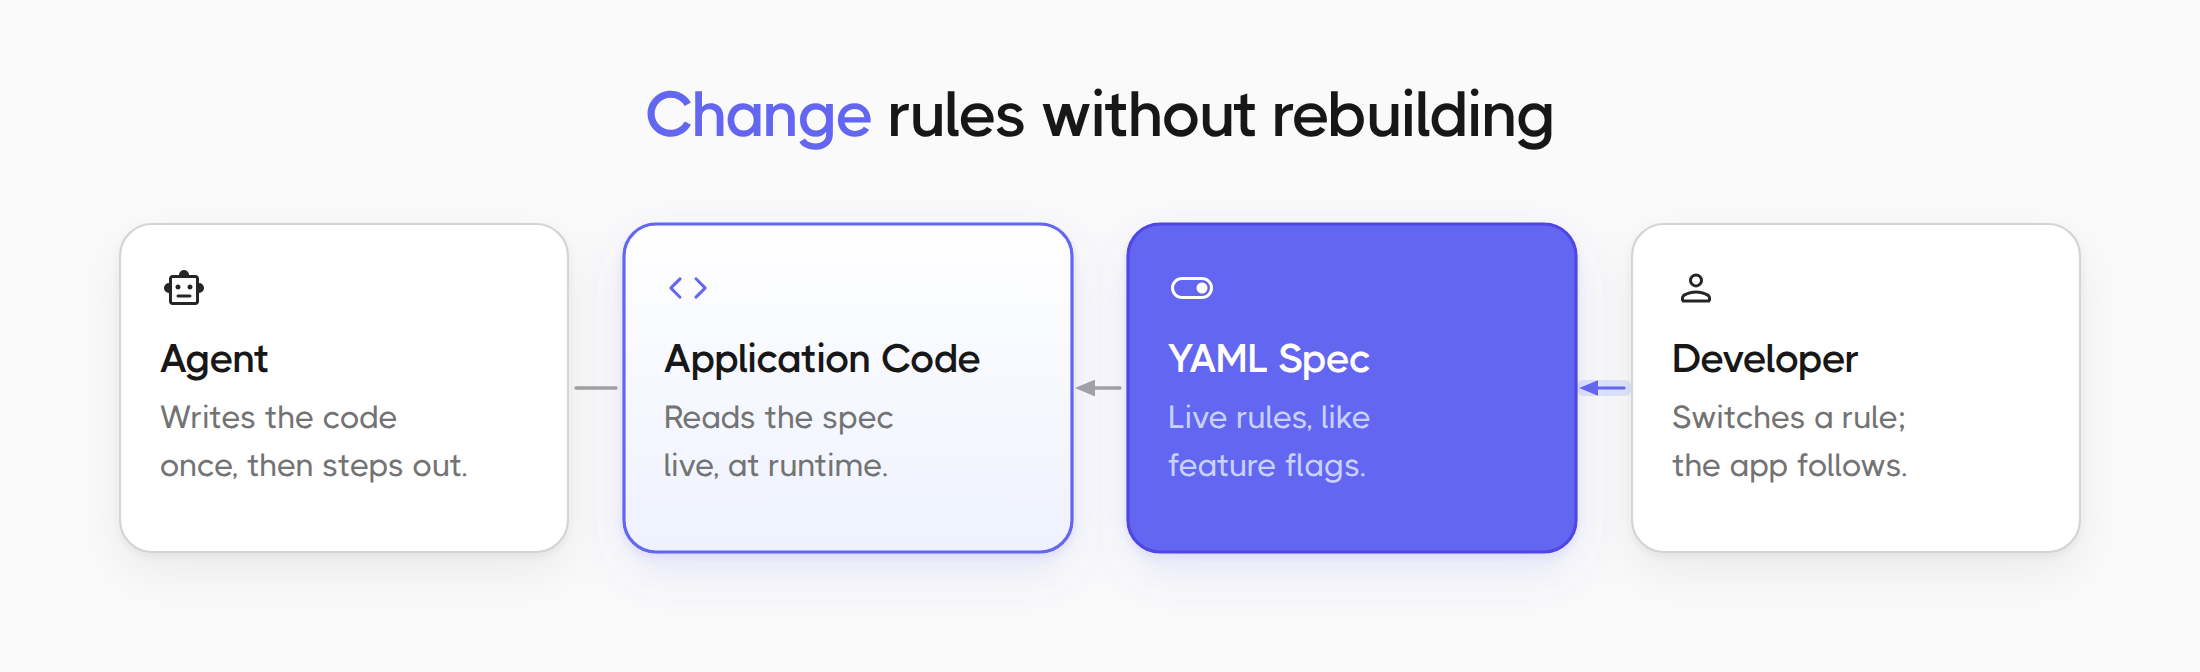
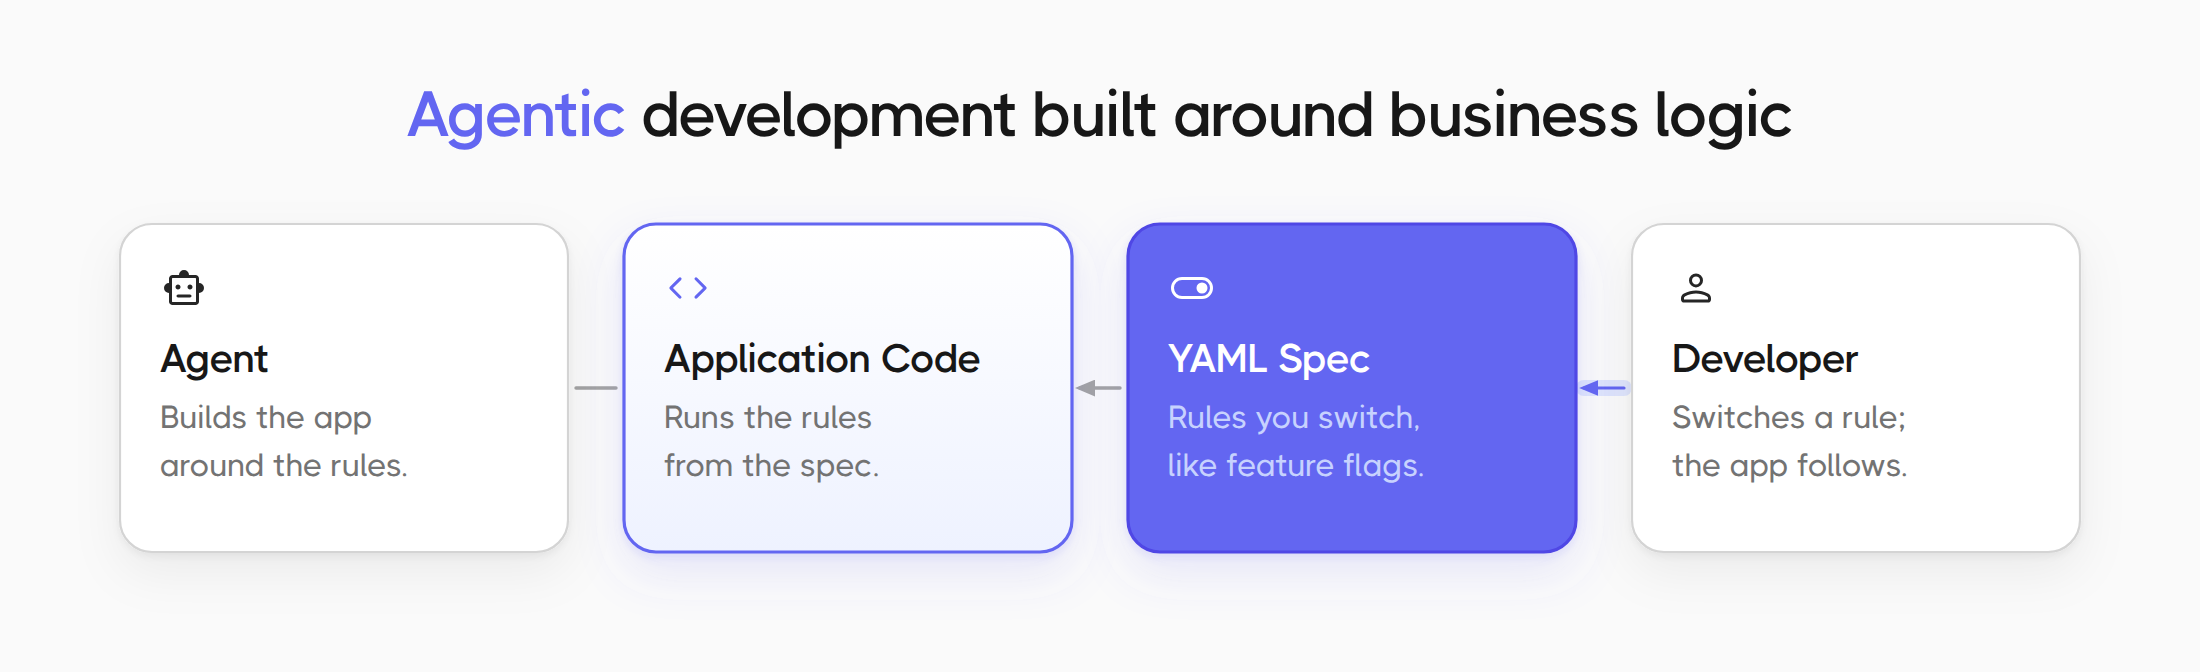
updated docs

diff --git a/README.md b/README.md
@@ -6,7 +6,7 @@ Let an agent write 99% of your application. Keep the important 1% under your dir
 
 <p align="center">
   <img src="docs/images/spec-and-agent.png" width="880"
-       alt="The agent writes the application code once; the code reads the YAML spec live at runtime; the developer switches rules in the spec and the app follows, with no rebuild">
+       alt="Agentic development built around business logic: the agent builds the app around the rules; the application code runs the rules from the YAML spec; the developer switches a rule and the app follows">
 </p>
 
 - **Some code is too important to leave buried in generated implementation.** Pricing rules,
@@ -45,9 +45,12 @@ We selected YAML because it is readable and compact (no curly braces, no types).
 - Schema `$schema` (inline) or usef in multiple files via `$dsl`
 - Functions obtained from application or declared internally
 
-### Example: a nav bar by plan
+## Brief
 
-**1. Rules buried in JSX.** Which plans see Reports? You'd have to ask an agent and trust its guess.
+### Flexible Navbar
+
+NavBar can display items based on customer's subscription. Which menu items are shown?
+This is defined in JSX which you never read:
 
 ```jsx
 export function NavBar({ plan }) {
@@ -64,7 +67,7 @@ export function NavBar({ plan }) {
 
 `plan !== 'free'` quietly gives Reports to any new plan, and the same checks spread to sidebars and route guards.
 
-**2. Move the rules to YAML.** One file you own; `$if!` drops an item when false.
+Instead of guessing and relying on agent's answers, have this information written as YAML file:
 
 ```yaml
 # navbar.yml
@@ -85,7 +88,7 @@ navbar:
     $if!: vars.plan = "free"
 ```
 
-**3. React only renders.** No plan checks left; the agent can keep working on this part.
+Let React render business rules based on conditions you set:
 
 ```jsx
 import { ScriptedYaml } from 'scripted-yaml/core';
@@ -105,9 +108,9 @@ export function NavBar({ plan }) {
 }
 ```
 
-For `pro` this renders Dashboard and Reports.
+Now you are in full control of menu bar. You know which plans explose which menu items.
 
-**4. Change a rule in one line.** Give Team to `pro`, no component change:
+Add access to team dashboard for users of Pro plan with no code change:
 
 ```diff
    - label: Team
@@ -116,23 +119,7 @@ For `pro` this renders Dashboard and Reports.
 +    $if!: vars.plan in ["pro", "team"]
 ```
 
-## Small examples
-
-### A UI definition
-
-- Edit `title` or move a field between groups directly in YAML.
-- The UI code renders this structure; it does not own another copy of the layout.
-
-```yaml
-title: Edit profile
-groups:
-  - title: Personal details
-    fields: [name, email]
-  - title: Preferences
-    fields: [language, timezone]
-```
-
-### An RPG character
+### GameDev
 
 - Change `hp_per_level` to rebalance the character.
 - `hit_points!` is a formula: at level 7, this character has 84 hit points.
@@ -144,7 +131,7 @@ hp_per_level: 12
 hit_points!: level * hp_per_level
 ```
 
-### A discount rule
+### Ecommerce
 
 - Change the threshold or formula in one place.
 - At a subtotal of 240, the discount is 24 and the message is `You save 24.`
@@ -168,7 +155,7 @@ Node 22+ or Bun. Importing `.ts` files requires Bun or Node 22.18+.
 **Load only trusted files:** loading runs `$import` modules and marker handlers.
 Validation runs neither and evaluates no formulas.
 
-## Complete examples
+## Examples
 
 Complete files: [`examples/`](examples).
 
